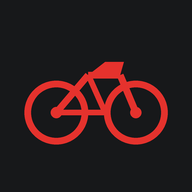
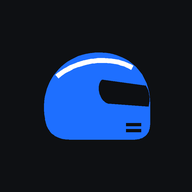
Add files via upload

Changed region(s): [[0.125, 0.25, 0.875, 0.7812]]

diff --git a/index.html b/index.html
@@ -2,20 +2,21 @@
 <html lang="en"><head><meta charset="utf-8">
 <meta name="viewport" content="width=device-width, initial-scale=1, viewport-fit=cover">
 <title>Ride Garage</title>
+<link rel="icon" href="icon-192.png">
 <link rel="manifest" href="manifest.webmanifest">
-<meta name="theme-color" content="#e5322d">
+<meta name="theme-color" content="#1e6fff">
 <link rel="apple-touch-icon" href="icon-192.png">
 <meta name="apple-mobile-web-app-capable" content="yes">
 <meta name="mobile-web-app-capable" content="yes">
 <meta name="apple-mobile-web-app-title" content="Ride Garage">
 
 <style>
-:root{--bg:#f4f4f1;--card:#fff;--tx:#17181a;--mu:#6b6f76;--ac:#e5322d;--bd:#e2e2dd;--ok:#1f9d55;box-sizing:border-box;padding-top:env(safe-area-inset-top,0px);padding-bottom:env(safe-area-inset-bottom,0px)}
+:root{--bg:#101113;--card:#1a1c1f;--tx:#f1f1ee;--mu:#9a9ea6;--ac:#1e6fff;--bd:#2c2f34;color-scheme:dark;--ok:#1f9d55;box-sizing:border-box;padding-top:env(safe-area-inset-top,0px);padding-bottom:env(safe-area-inset-bottom,0px)}
 @media(prefers-color-scheme:dark){:root:not([data-theme="light"]){--bg:#101113;--card:#1a1c1f;--tx:#f1f1ee;--mu:#9a9ea6;--bd:#2c2f34}}
 :root[data-theme="dark"]{--bg:#101113;--card:#1a1c1f;--tx:#f1f1ee;--mu:#9a9ea6;--bd:#2c2f34}
 html{scroll-padding-top:env(safe-area-inset-top,0px)}
 *{box-sizing:border-box}
-body{margin:0;background:var(--bg);color:var(--tx);font:15px/1.45 system-ui,-apple-system,Segoe UI,Roboto,sans-serif}
+body{margin:0;background:linear-gradient(27deg,#151515 5px,transparent 5px) 0 5px,linear-gradient(207deg,#151515 5px,transparent 5px) 10px 0,linear-gradient(27deg,#222 5px,transparent 5px) 0 10px,linear-gradient(207deg,#222 5px,transparent 5px) 10px 5px,linear-gradient(90deg,#1b1b1b 10px,transparent 10px),linear-gradient(#1d1d1d 25%,#1a1a1a 25%,#1a1a1a 50%,transparent 50%,transparent 75%,#242424 75%,#242424);background-color:#131313;background-size:20px 20px;color:var(--tx);font:15px/1.45 system-ui,-apple-system,Segoe UI,Roboto,sans-serif}
 main{max-width:640px;margin:0 auto;padding:16px}
 h1{font-size:22px;margin:0}h1 span{color:var(--ac)}
 header{display:flex;justify-content:space-between;align-items:center;margin-bottom:12px}
@@ -42,12 +43,12 @@ input,select,textarea{width:100%;padding:9px;border:1px solid var(--bd);border-r
 svg.trk{width:100%;height:160px;background:var(--bg);border-radius:10px;border:1px solid var(--bd)}
 a.btn{text-decoration:none;display:inline-block}
 .tabs button{padding:10px 2px;font-size:13px}
-.s-bad{color:var(--ac);border-color:var(--ac)}
+.s-bad{color:#ff453a;border-color:#ff453a}
 #lb{position:fixed;inset:0;background:rgba(0,0,0,.92);display:none;align-items:center;justify-content:center;z-index:9}
 #lb img{max-width:96%;max-height:92%}
 </style></head><body>
 <main>
-<header><h1>Ride <span>Garage</span></h1><div class="mu" id="bike"></div></header>
+<header><h1 style="display:flex;align-items:center;gap:8px"><svg width="36" height="31" viewBox="10 12 86 70" aria-hidden="true"><path d="M18 62 C14 38 30 18 54 18 C74 18 88 32 88 52 L88 66 C88 72 84 76 78 76 L34 76 C24 76 19 70 18 62 Z" fill="#1e6fff"/><path d="M56 36 L85 40 C88 44 88 50 87 54 L60 52 C54 50 52 40 56 36 Z" fill="#0d0f12"/><path d="M26 34 C40 22 62 20 76 28" fill="none" stroke="#fff" stroke-width="3.4" stroke-linecap="round"/><path d="M72 66 L82 66 M72 70 L82 70" fill="none" stroke="#0d0f12" stroke-width="2.2" stroke-linecap="round"/></svg>Ride <span>Garage</span></h1><div class="mu" id="bike"></div></header>
 <div class="tabs"><button id="t-build" onclick="tab('build')">Build</button><button id="t-trips" onclick="tab('trips')">Trips</button><button id="t-places" onclick="tab('places')">Places</button><button id="t-svc" onclick="tab('svc')">Service</button><button id="t-fuel" onclick="tab('fuel')">Fuel</button></div>
 <div id="v"></div>
 <details class="card" style="margin-top:8px"><summary><b>Backup &amp; restore</b></summary>
@@ -126,7 +127,7 @@ function trackSVG(p){
   const kx=Math.cos((mnA+mxA)/2*Math.PI/180),w=Math.max((mxO-mnO)*kx,1e-5),h=Math.max(mxA-mnA,1e-5),s=Math.min(270/w,130/h),ox=(300-w*s)/2,oy=(160-h*s)/2;
   const pt=a=>[(ox+(a[1]-mnO)*kx*s).toFixed(1),(oy+(mxA-a[0])*s).toFixed(1)];
   const q=p.map(pt),e=q[q.length-1];
-  return `<svg class="trk" viewBox="0 0 300 160"><polyline points="${q.map(a=>a.join(',')).join(' ')}" fill="none" stroke="#e5322d" stroke-width="3" stroke-linejoin="round" stroke-linecap="round"/><circle cx="${q[0][0]}" cy="${q[0][1]}" r="5" fill="#1f9d55"/><circle cx="${e[0]}" cy="${e[1]}" r="5" fill="#e5322d"/></svg>`;
+  return `<svg class="trk" viewBox="0 0 300 160"><polyline points="${q.map(a=>a.join(',')).join(' ')}" fill="none" stroke="#1e6fff" stroke-width="3" stroke-linejoin="round" stroke-linecap="round"/><circle cx="${q[0][0]}" cy="${q[0][1]}" r="5" fill="#1f9d55"/><circle cx="${e[0]}" cy="${e[1]}" r="5" fill="#1e6fff"/></svg>`;
 }
 function renderTrips(){
   const tot=S.trips.reduce((a,t)=>a+t.dist,0);
@@ -271,7 +272,7 @@ function fuelCalc(){
 function bars(s){
   if(s.length<2)return '';
   const mx=Math.max(...s),w=300/s.length;
-  return `<svg class="trk" viewBox="0 0 300 80" style="height:80px;margin-top:10px">${s.map((v,i)=>`<rect x="${(i*w+2).toFixed(1)}" y="${(76-v/mx*70).toFixed(1)}" width="${Math.max(w-4,2).toFixed(1)}" height="${(v/mx*70).toFixed(1)}" rx="2" fill="#e5322d"/>`).join('')}</svg>`;
+  return `<svg class="trk" viewBox="0 0 300 80" style="height:80px;margin-top:10px">${s.map((v,i)=>`<rect x="${(i*w+2).toFixed(1)}" y="${(76-v/mx*70).toFixed(1)}" width="${Math.max(w-4,2).toFixed(1)}" height="${(v/mx*70).toFixed(1)}" rx="2" fill="#1e6fff"/>`).join('')}</svg>`;
 }
 function renderFuel(){
   const c=fuelCalc(),segs=Object.values(c),td=segs.reduce((a,s)=>a+s.d,0),tl=segs.reduce((a,s)=>a+s.l,0);

diff --git a/sw.js b/sw.js
@@ -1,4 +1,4 @@
-const CACHE='ride-garage-v1';
+const CACHE='ride-garage-v2';
 const FILES=['./','index.html','manifest.webmanifest','icon-192.png','icon-512.png'];
 self.addEventListener('install',e=>{e.waitUntil(caches.open(CACHE).then(c=>c.addAll(FILES)).then(()=>self.skipWaiting()))});
 self.addEventListener('activate',e=>{e.waitUntil(caches.keys().then(k=>Promise.all(k.filter(n=>n!==CACHE).map(n=>caches.delete(n)))).then(()=>self.clients.claim()))});
